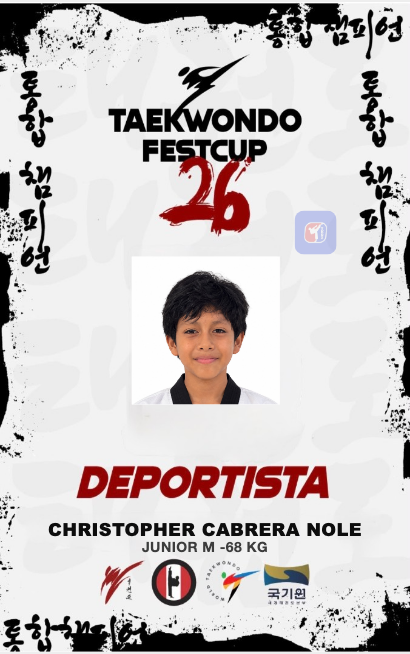
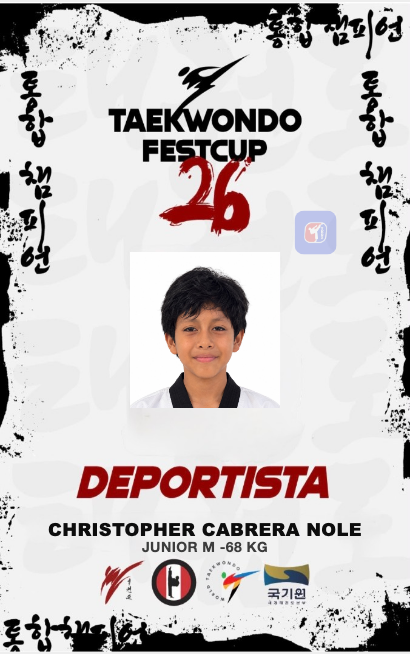
FestCup credencial: recuadro de foto ligeramente más grande.

Changed region(s): [[0.3805, 0.3976, 0.6146, 0.5505], [0.4098, 0.5505, 0.5854, 0.6422], [0.5268, 0.5505, 0.5561, 0.581]]

diff --git a/src/lib/campeonato/credencial-layout.js b/src/lib/campeonato/credencial-layout.js
@@ -6,7 +6,7 @@ export const DEFAULT_CREDENCIAL_LAYOUT = {
 
 /** FestCup 2026 · plantillas limpias (rol en JPG) + foto, nombre, categoría y logo academia */
 export const FESTCUP_2026_CREDENCIAL_LAYOUT = {
-  foto: { type: 'rect', left: 50, top: 50.5, width: 36.4, height: 22.6 },
+  foto: { type: 'rect', left: 50, top: 50.55, width: 37.2, height: 24 },
   /** Debajo del rol impreso en la plantilla (DEPORTISTA / ENTRENADOR) */
   nombre: { left: 50, top: 79.6, width: 88 },
   categoria: { left: 50, top: 82.8, width: 88 },

diff --git a/src/components/campeonatos/CredencialCard.js b/src/components/campeonatos/CredencialCard.js
@@ -34,7 +34,7 @@ export default function CredencialCard({ competidor: c, templateUrl, layout: lay
   const isFestcup2026 = isFestcup2026Credencial({ layout, templateUrl })
   const plantillaSrc = useMemo(() => {
     const src = credencialTemplateSrc(templateUrl)
-    return isFestcup2026 ? `${src}${src.includes('?') ? '&' : '?'}v=20261015h` : src
+    return isFestcup2026 ? `${src}${src.includes('?') ? '&' : '?'}v=20261015i` : src
   }, [templateUrl, isFestcup2026])
 
   useEffect(() => {
